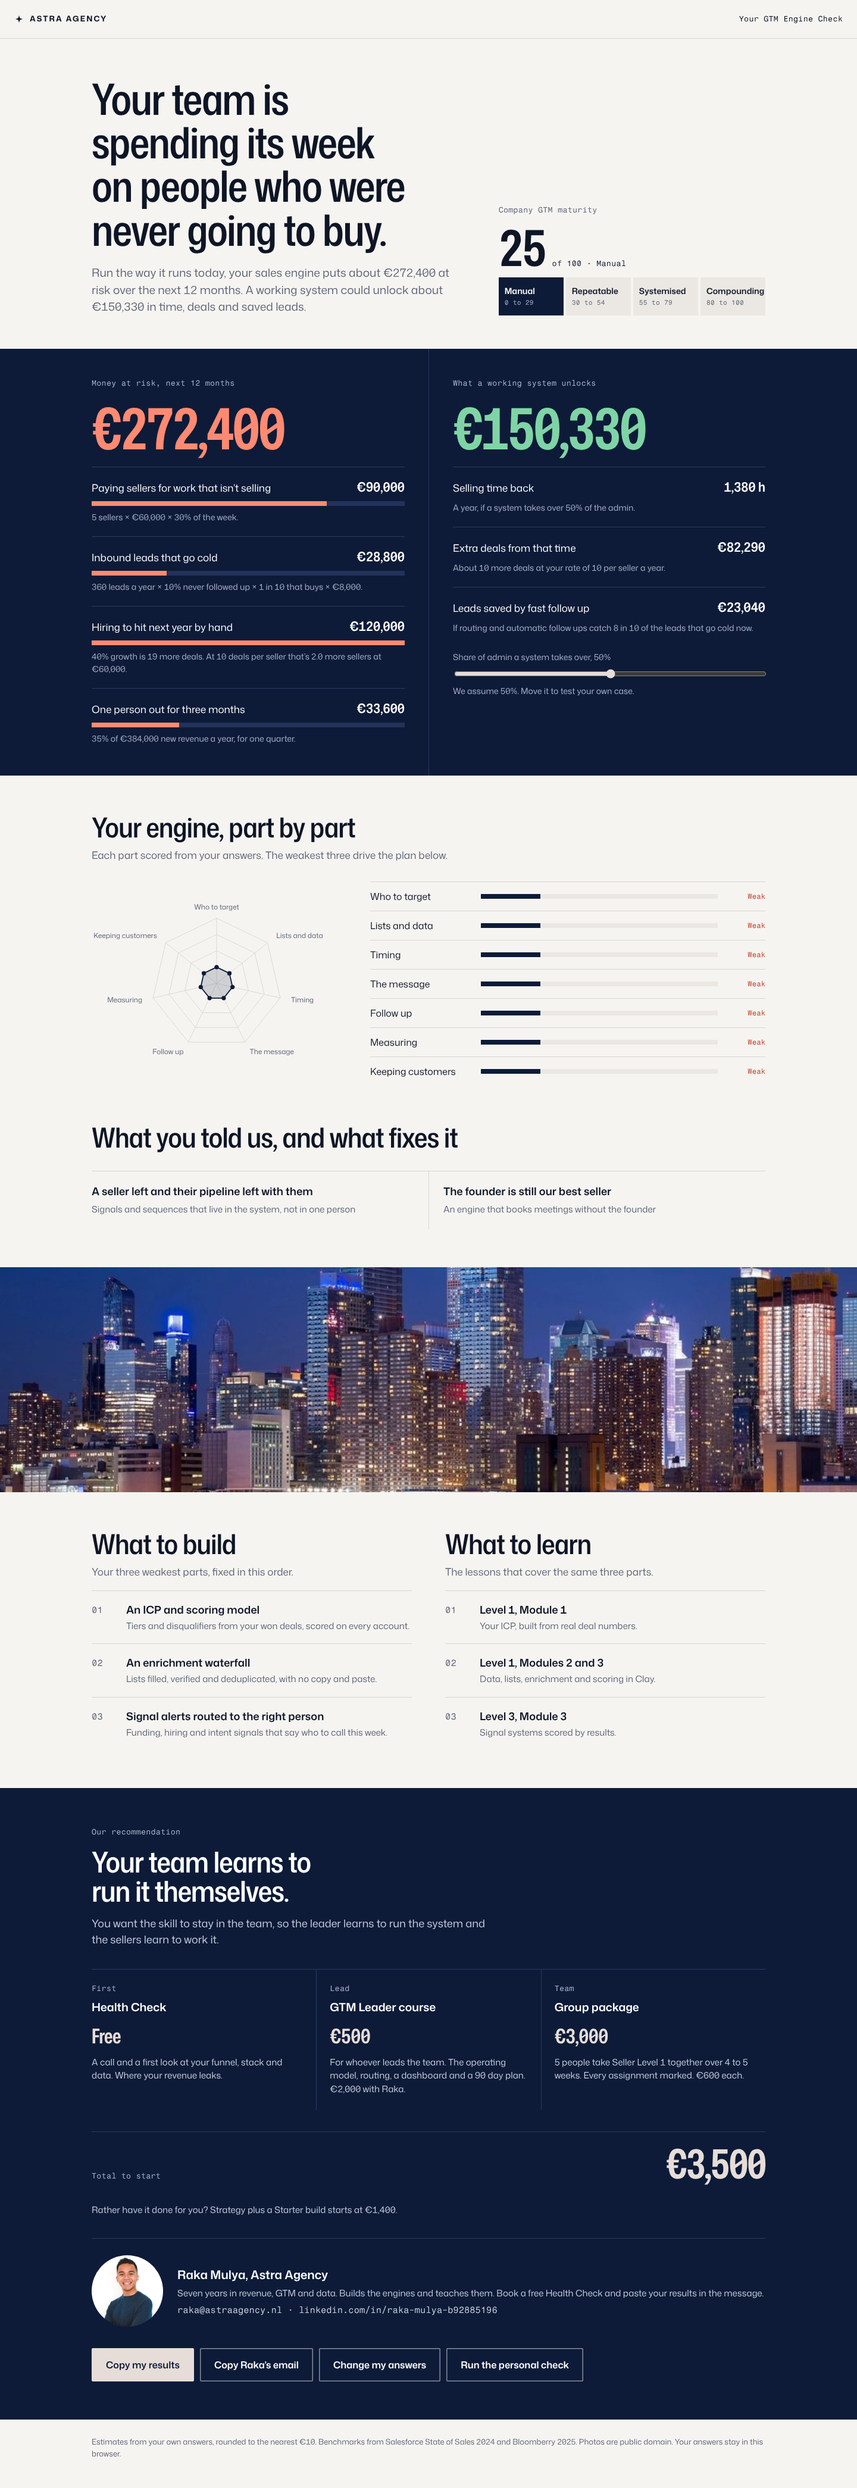
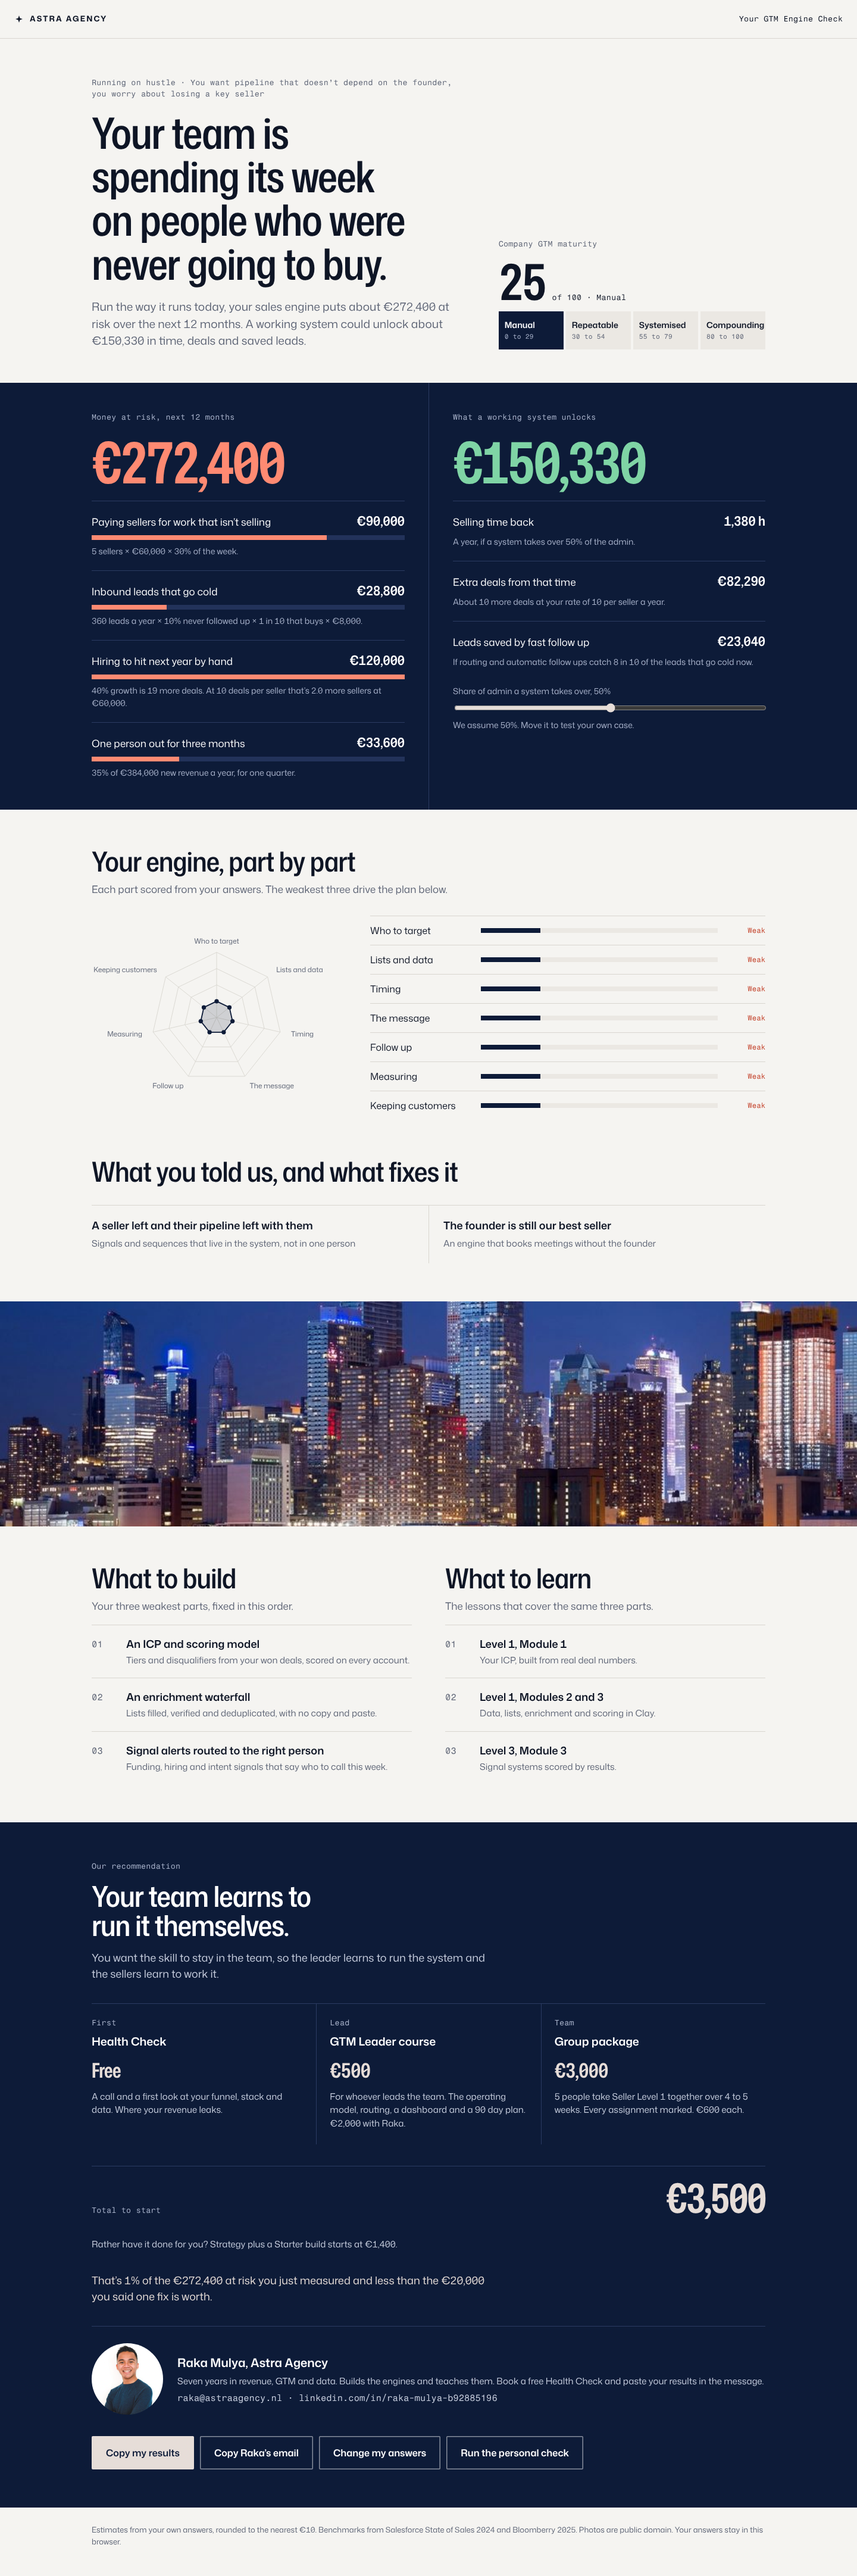
artifacts: GTM Engine Check, psychology layer
Goal first for commitment, a worry question for loss aversion, a self set value used as the price anchor, honesty prompts, a growing findings count and an engine label for identity. Tested both paths at desktop and phone, check-build.js exit 0. Not deployed yet.

Claude-Session: https://claude.ai/code/session_01D1X6QMP86W9nWLd9ffAnon

diff --git a/artifacts/gtm-check-site/index.html b/artifacts/gtm-check-site/index.html
@@ -223,6 +223,8 @@ const FIX={
  measure:{build:['A dashboard and forecast','One view of pipeline and reply rates, and a forecast you can defend.'],learn:['Level 2, Module 5','Scorecards, dashboards and forecasting.'],line:'You can’t see which part of your engine is actually working.',me:'You can\u2019t tell which of your efforts actually works.'},
  loyalty:{build:['Lead to loyalty flows','Onboarding, health scores, renewals and win backs that run on their own.'],learn:['Level 2, Module 4','Allbound and loyalty flows.'],line:'Customers leave quietly and nobody sees it coming.',me:'Your customers drift off after they buy, and nobody notices.'}
 };
+const MIR={team:{goal:['to hit a bigger target without hiring','pipeline that doesn\u2019t depend on the founder','to know which deals will close, and when','a team that runs the system itself'],fear:['missing the target','losing a key seller','hiring people who never ramp up','a competitor getting there first']},me:{goal:['more meetings with less grind','to hit your target every quarter','a more technical, better paid role','to lead a team that runs on a system'],fear:['missing your target again','your role being automated away','being stuck in the same job','burning out']}};
+const mir=(k,j)=>MIR[st.path][k][j];
 const S=(...a)=>a.map((t,i)=>({t,v:i}));
 
 /* chapters, each with its own photo */
@@ -230,6 +232,7 @@ const CH={team:[['Your week','img/team.jpg'],['The leaks','img/leaks.jpg'],['The
           me:[['Your week','img/seller.jpg'],['Your craft','img/desk.jpg'],['Your tools','img/screens.jpg'],['What’s next','img/career.jpg']]};
 
 const TEAM=[
+ {id:'goal',c:0,q:'Start with the good part. What would make next year a great year for the team?',opts:[{t:'Hitting a bigger target without hiring',v:0},{t:'Pipeline that doesn\u2019t depend on the founder',v:1},{t:'Knowing which deals will close, and when',v:2},{t:'A team that runs the system themselves',v:3}],heard:o=>`You want ${mir('goal',o.v)}.`},
  {id:'admin',c:0,q:'It’s Monday morning. Where does your sellers’ first hour go?',hint:'Pick the one that sounds most like your team.',opts:[{t:'Calls and meetings with buyers',v:0.15},{t:'The inbox and updating the CRM',v:0.3},{t:'Working out who to contact this week',v:0.5},{t:'Building lists and chasing data in spreadsheets',v:0.7}],heard:o=>`About ${Math.round(o.v*100)}% of the week goes on work that isn’t selling.`},
  {id:'nums',c:0,type:'nums',q:'Put some numbers on it',hint:'Rough is fine. Every euro in your report comes from these, and you can change them later.',fields:[
   {k:'reps',l:'People who sell, founders included',d:5,u:''},{k:'cost',l:'Yearly cost per seller',d:60000,u:'€'},
@@ -241,23 +244,26 @@ const TEAM=[
  {id:'pains',c:1,type:'multi',q:'Which of these happened in the last six months?',hint:'Pick all that are true. This is where the report gets specific.',opts:[
   'A good lead went cold because nobody followed up','A seller left and their pipeline left with them','We missed a quarter and didn’t see it coming','We couldn’t say which campaign brought in a deal','A customer left without warning','The founder is still our best seller','Nobody trusts what’s in the CRM'],heard:o=>o.length?`${o.length} of these happened to you.`:'None of these happened. Good.'},
  {id:'key',c:1,q:'How much of this year’s new revenue came through one person?',hint:'Your best seller, or the founder.',when:a=>(a.pains||[]).some(j=>j===1||j===5),opts:[{t:'About a fifth',v:0.2},{t:'About a third',v:0.35},{t:'About half',v:0.5},{t:'Most of it',v:0.7}],heard:o=>`${o.t} of new revenue rides on one person.`},
- {id:'target',c:2,dim:'target',q:'A new seller starts tomorrow. How do they know who to call?',opts:S('They ask around','We describe our best customers','There’s a written profile','A profile with tiers, built from won deals','Accounts are already scored for them')},
+ {id:'target',c:2,dim:'target',q:'A new seller starts tomorrow. How do they know who to call?',hint:'No wrong answers here. Nobody sees this but you, so pick what really happens.',opts:S('They ask around','We describe our best customers','There’s a written profile','A profile with tiers, built from won deals','Accounts are already scored for them')},
  {id:'data',c:2,dim:'data',q:'How does a contact end up on one of your lists?',opts:S('Someone copies it in by hand','LinkedIn searches, one by one','A tool export, cleaned by hand','Enriched and verified automatically','Enriched, scored and pushed into the CRM on its own')},
  {id:'signals',c:2,dim:'signals',q:'A target account just raised money and is hiring salespeople. When would you know?',opts:S('Probably never','If someone happens to see it','Within a few weeks','Within days, we check signals weekly','The same day, sent to the right person')},
  {id:'message',c:2,dim:'message',q:'Look at the last ten first messages your team sent. How many were written for that one person?',opts:S('None, it’s one template','Name and company swapped in','A few were researched','Most, researched with AI and checked','All of them, an AI agent researches and a person checks')},
  {id:'measure',c:2,dim:'measure',q:'Someone asks which channel brought in last quarter’s deals. How long until you can answer?',opts:S('We couldn’t','A few days of digging','A few hours in a spreadsheet','Minutes, it’s on a dashboard','Right away, with next quarter’s forecast')},
  {id:'loyalty',c:2,dim:'loyalty',q:'A customer goes quiet for two months. What happens?',opts:S('Nothing, until they cancel','Someone notices, sometimes','A check in, if we remember','A health score flags it','A flow reaches out and wins them back')},
+ {id:'fear',c:3,q:'Now the honest part. What worries you most about next year?',opts:[{t:'Missing the target',v:0},{t:'Losing a key seller',v:1},{t:'Hiring people who never ramp up',v:2},{t:'A competitor getting there first',v:3}],heard:o=>`What worries you most is ${mir('fear',o.v)}.`},
+ {id:'worth',c:3,q:'If one of these got fixed next quarter, what would it be worth to you?',hint:'Your own gut number. We hold the plan up against it.',opts:[{t:'About \u20ac5,000',v:5000},{t:'About \u20ac20,000',v:20000},{t:'About \u20ac50,000',v:50000},{t:'\u20ac100,000 or more',v:100000}],heard:o=>`One fix is worth ${o.t.toLowerCase()} to you.`},
  {id:'owner',c:3,q:'If you had this engine tomorrow, who would look after it?',opts:[{t:'Nobody, we’re stretched',v:0},{t:'A sales lead with little time',v:1},{t:'An ops person',v:2},{t:'An ops person who likes building',v:3}],heard:o=>o.v===0?'Nobody has time to look after it.':`${o.t} would look after it.`},
  {id:'how',c:3,q:'How would you rather get there?',opts:[{t:'Build it for us',v:'build'},{t:'Teach us to build and run it',v:'learn'},{t:'Build the core, then train the team',v:'mix'}]}
 ];
 const ME=[
+ {id:'goal',c:0,q:'Start with the good part. What would make next year a great year for you?',opts:[{t:'More meetings with less grind',v:0},{t:'Hitting my target every quarter',v:1},{t:'A more technical, better paid role',v:2},{t:'Leading a team that runs on a system',v:3}],heard:o=>`You want ${mir('goal',o.v)}.`},
  {id:'role',c:0,q:'Which sounds most like you?',opts:[{t:'I sell, as an AE, an SDR or a founder',v:'seller'},{t:'I want a career in GTM engineering or RevOps',v:'career'},{t:'I lead a sales team',v:'leader'}]},
  {id:'mypains',c:0,type:'multi',q:'Which of these sound like your week?',hint:'Pick all that are true.',opts:['I build lists in the evenings','I don’t know who to call first','My messages get ignored','Follow ups slip through the cracks','I can’t tell what’s working','I want a better paid, more technical role'],heard:o=>o.length?`${o.length} of these sound like your week.`:'None of these. Good.'},
  {id:'nums',c:0,type:'nums',q:'Put some numbers on it',hint:'Rough is fine. These drive the euro figures in your report.',fields:[
   {k:'income',l:'Your yearly pay, bonus included',d:55000,u:'€'},{k:'adminh',l:'Hours a week on lists, research and admin',d:12,u:'h'},
   {k:'meet',l:'Meetings you book per month',d:6,u:''},{k:'deal',l:'Average deal value',d:8000,u:'€'},{k:'mpd',l:'Meetings it takes to win one deal',d:5,u:''}]},
  {id:'quota',c:0,q:'Where are you against your target this year?',opts:[{t:'Ahead',v:0},{t:'On track',v:1},{t:'Behind',v:2},{t:'Well behind, or no target yet',v:3}],heard:o=>`You’re ${o.t.toLowerCase()}.`},
- {id:'target',c:1,dim:'target',q:'It’s 9am and you have one hour to prospect. How do you pick who?',opts:S('Whoever I come across','People who look roughly right','I check a written profile','I work down a tiered list','My accounts are already scored and ranked')},
+ {id:'target',c:1,dim:'target',q:'It’s 9am and you have one hour to prospect. How do you pick who?',hint:'No wrong answers here. Nobody sees this but you, so pick what really happens.',opts:S('Whoever I come across','People who look roughly right','I check a written profile','I work down a tiered list','My accounts are already scored and ranked')},
  {id:'data',c:1,dim:'data',q:'How do you build a list of 50 people?',opts:S('Copy and paste, by hand','LinkedIn searches, one by one','A tool export I clean myself','Clay or similar, enriched and verified','A waterfall that feeds my CRM')},
  {id:'signals',c:1,dim:'signals',q:'One of your accounts just hired a new head of sales. When would you know?',opts:S('Probably never','If it shows up in my feed','Within a few weeks','Within days, I check signals weekly','The same day, an alert tells me')},
  {id:'message',c:1,dim:'message',q:'How long does a good first message take you?',opts:S('Seconds, it’s a template','A minute, I swap the name in','Twenty minutes of research','Ten minutes with AI, then I check it','My agent drafts it, I approve it')},
@@ -265,6 +271,8 @@ const ME=[
  {id:'measure',c:2,dim:'measure',q:'Which of your openers works best?',opts:S('No idea','I have a feeling','I could work it out','I check a weekly scorecard','I A/B test and know the numbers')},
  {id:'loyalty',c:2,dim:'loyalty',q:'What happens with customers after they buy?',opts:S('Nothing from me','I check in sometimes','A set onboarding routine','Renewals and upsell tracked','Flows that run on their own')},
  {id:'tools',c:2,type:'multi',q:'Which of these have you used yourself?',hint:'Pick all that apply.',opts:['A CRM like HubSpot or Salesforce','LinkedIn Sales Navigator','Clay or another enrichment tool','lemlist, Apollo or another sequencer','n8n, Make or Zapier','An AI assistant like Claude or ChatGPT','APIs, SQL or code'],heard:o=>`You’ve used ${o.length} of 7 tools.`},
+ {id:'fear',c:3,q:'Now the honest part. What worries you most about next year?',opts:[{t:'Missing my target again',v:0},{t:'My role being automated away',v:1},{t:'Being stuck in the same job',v:2},{t:'Burning out',v:3}],heard:o=>`What worries you most is ${mir('fear',o.v)}.`},
+ {id:'worth',c:3,q:'If you had five hours a week back, what would that be worth to you this year?',hint:'Your own gut number. We hold the plan up against it.',opts:[{t:'About \u20ac1,000',v:1000},{t:'About \u20ac5,000',v:5000},{t:'About \u20ac10,000',v:10000},{t:'\u20ac25,000 or more',v:25000}],heard:o=>`Five hours a week is worth ${o.t.toLowerCase()} to you.`},
  {id:'pace',c:3,q:'How do you learn best?',opts:[{t:'On my own, at my own pace',v:'self'},{t:'With someone who checks my work',v:'one'}]}
 ];
 
@@ -323,6 +331,7 @@ function heardLine(){
  const qs=Qs();for(let k=st.i-1;k>=0;k--){const q=qs[k];if(q.heard&&st.a[q.id]!==undefined){const v=st.a[q.id];return q.heard(q.type==='multi'?v:(v.j!==undefined?{...q.opts[v.j],v:v.v}:v))}}
  return st.path==='team'?'Nothing yet. Your first answer starts the tally.':'Nothing yet. Your first answer starts the tally.';
 }
+function findings(){const a=st.a;let n=DIMS.filter(([k])=>a[k]&&a[k].v<=2).length+((st.path==='team'?a.pains:a.mypains)||[]).length;if(a.admin||a.nums)n++;if(a.nofollow&&a.nofollow.v>=.1)n++;if(a.key)n++;return n}
 function quiz(){
  const qs=Qs();if(st.i>=qs.length)st.i=qs.length-1;
  const q=qs[st.i],ch=CH[st.path][q.c],nCh=qs.filter(x=>x.c===q.c),posInCh=nCh.indexOf(q);
@@ -344,7 +353,7 @@ function quiz(){
     <h2>${q.q}</h2>${q.hint?`<p class="hint">${q.hint}</p>`:''}${body}
    </div>
    <div class="qfoot">
-    <div class="ledger" aria-live="polite"><span class="mono" style="color:var(--muted)">${st.path==='team'?'At risk next year, so far':'Paid time lost a year, so far'}</span><span class="amt">${eur(live.risk)}</span><span class="heard">${heardLine()}</span></div>
+    <div class="ledger" aria-live="polite"><span class="mono" style="color:var(--muted)">${st.path==='team'?'At risk next year, so far':'Paid time lost a year, so far'}</span><span class="amt">${eur(live.risk)}</span><span class="heard">${heardLine()}</span><span class="mono" style="color:var(--muted)">${findings()} findings in your report so far</span></div>
     <div class="qnav"><button class="btn line" id="back">Back</button>${needNext?`<button class="btn" id="next">${st.i===qs.length-1?'See my report':'Next'}</button>`:''}</div>
    </div>
   </div></section>`;
@@ -450,12 +459,15 @@ function report(){
  const PAINFIX=r.team?['Lead routing with a reply time on every lead','Signals and sequences that live in the system, not in one person','A dashboard and a forecast built from stages with exit criteria','Attribution in the CRM, so every deal shows where it came from','Health scores and win back flows','An engine that books meetings without the founder','CRM rules with owners, checked in ten minutes a week']
   :['An enrichment waterfall, so lists build themselves','A tiered list and alerts that rank who to call','Messages built on one researched problem','A sequence that starts from the reply','A weekly scorecard','The Engineer track, from Operator to Architect'];
  const painIdx=r.team?(st.a.pains||[]):(st.a.mypains||[]);
+ const gq=(r.team?TEAM:ME).find(q=>q.id==='goal'),fq=(r.team?TEAM:ME).find(q=>q.id==='fear');
+ const mirror=[st.a.goal?'You want '+mir('goal',st.a.goal.j):'',st.a.fear?'you worry about '+mir('fear',st.a.fear.j):''].filter(Boolean).join(', ');
+ const worth=st.a.worth?st.a.worth.v:0;
  const p=r.pack,bandImg=r.team?'img/city.jpg':'img/career.jpg';
  const sub=r.team?`Run the way it runs today, your sales engine puts about ${eur(r.risk)} at risk over the next 12 months. A working system could unlock about ${eur(r.opp)} in time, deals and saved leads.`:`Admin costs you about ${eur(m.timeCost)} of paid time a year. Hand ${st.recover}% of it to a system and you could add about ${eur(m.oppRev)} of pipeline.${st.a.quota&&st.a.quota.v>=2?' You told us you’re behind target, so this year every hour counts.':''}`;
  app.innerHTML=`<div class="rep fade">
  <div class="bar0"><div class="wordmark">${STAR} ASTRA AGENCY</div><span class="mono">Your GTM Engine Check</span></div>
  <div class="wrap"><section class="diag">
-  <div><h1>${head}</h1><p class="sub">${sub}</p></div>
+  <div><p class="mono" style="color:var(--muted);margin-bottom:18px">${['Running on hustle','Running on heroes','Running on a system','Running like a machine'][r.level]}${mirror?' \u00b7 '+mirror:''}</p><h1>${head}</h1><p class="sub">${sub}</p></div>
   <div class="level"><span class="mono" style="color:var(--muted)">${r.team?'Company':'Individual'} GTM maturity</span><div class="scoreRow"><span class="n">${r.score}</span><span class="mono">of 100 · ${r.LV[r.level]}</span></div>
    <div class="ladder">${r.LV.map((n,i)=>`<div class="${i===r.level?'on':''}"><b>${n}</b><span class="mono">${['0 to 29','30 to 54','55 to 79','80 to 100'][i]}</span></div>`).join('')}</div></div>
  </section></div>
@@ -489,6 +501,7 @@ function report(){
   <div class="steps">${p.steps.map(s=>`<div class="step"><span class="mono">${s.n}${s.fmt?' · '+s.fmt:''}</span><b>${s.t}</b><span class="price">${s.p===0?'Free':(s.approx?'About ':s.from?'From ':'')+eur(s.p)+(s.mo?' a month':'')}</span><p>${s.d}</p></div>`).join('')}</div>
   <div class="total"><span class="mono" style="color:#aab4cc">Total to start</span><span class="huge">${eur(p.once)}${p.mo?`<span style="font-size:.45em"> then ${eur(p.mo)} a month</span>`:''}</span></div>
   ${p.alt?`<p class="alt">${p.alt}</p>`:''}
+  ${anchor(p,r,worth)}
   <div class="raka"><img src="img/raka.jpg" alt="Raka Mulya"><div class="who"><b>Raka Mulya, Astra Agency</b><span>Seven years in revenue, GTM and data. Builds the engines and teaches them. Book a free Health Check and paste your results in the message.</span><span class="contact">raka@astraagency.nl · linkedin.com/in/raka-mulya-b92885196</span></div></div>
   <div class="ctas"><button class="btn light" id="copy">Copy my results</button><button class="btn lineLight" id="mail">Copy Raka’s email</button><button class="btn lineLight" id="redo">Change my answers</button><button class="btn lineLight" id="other">Run the ${r.team?'personal':'team'} check</button></div>
  </div></section>
@@ -501,6 +514,7 @@ function report(){
  document.getElementById('mail').onclick=()=>copy('raka@astraagency.nl','Email copied.');
  scrollTo(0,0);
 }
+function anchor(p,r,worth){const bits=[];if(r.risk>0)bits.push(`That\u2019s ${Math.max(1,Math.round(p.once/r.risk*100))}% of the ${eur(r.risk)} at risk you just measured`);if(worth)bits.push(p.once<=worth?`and less than the ${eur(worth)} you said one fix is worth`:`and you said one fix is worth ${eur(worth)}`);return bits.length?`<p class="why" style="color:var(--sand)">${bits.join(' ')}.</p>`:''}
 function summary(r){const p=r.pack;return [`GTM Engine Check, ${r.team?'my team':'me'}`,`Maturity ${r.LV[r.level]}, ${r.score} of 100`,`Money at risk next 12 months ${eur(r.risk)}`,`Opportunity ${eur(r.opp)}`,`Weakest parts ${r.weak.map(k=>LABEL[k]).join(', ')}`,`Recommended ${p.steps.map(s=>s.t).join(', then ')}`,`Total to start ${eur(p.once)}${p.mo?` then ${eur(p.mo)} a month`:''}`].join('\n')}
 function copy(t,msg){const ok=()=>toast(msg);if(navigator.clipboard&&navigator.clipboard.writeText)navigator.clipboard.writeText(t).then(ok,()=>fb(t,msg));else fb(t,msg)}
 function fb(t,msg){const ta=document.createElement('textarea');ta.value=t;document.body.appendChild(ta);ta.select();try{document.execCommand('copy');toast(msg)}catch(e){toast('Select the text and copy it yourself.')}ta.remove()}
